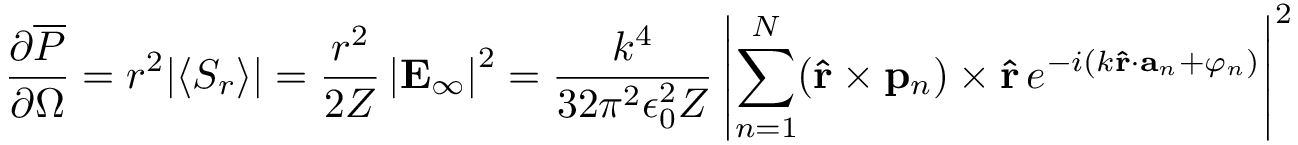
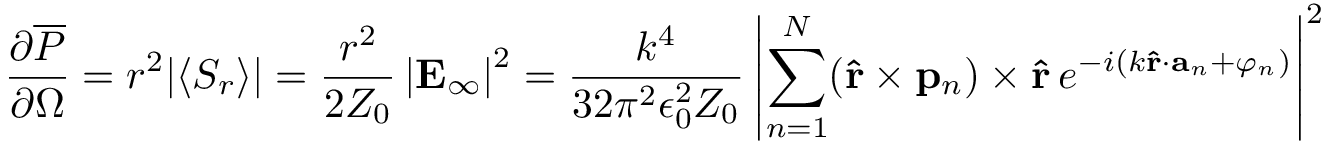
use Z_0 instead of Z for the impedance of free space

diff --git a/doc/equations.tex b/doc/equations.tex
@@ -41,7 +41,7 @@ r' := |\mathbf{r} - \mathbf{a}_{n}|\quad\mathbf{\hat{r}'} := \frac{\mathbf{r} - 
 
 % radiant intensity (radiant flux per unit solid angle)
 \begin{mymath}
-  \frac{\partial \overline{P}}{\partial \Omega} = r^{2} |\langle S_{r} \rangle| = \frac{r^{2}}{2Z} \norm{\mathbf{E}_{\infty}}^{2} = \frac{k^{4}}{32\pi^{2}\epsilon_{0}^{2}Z} \norm{\sum_{n=1}^{N} (\mathbf{\hat{r}} \times \mathbf{p}_{n}) \times \mathbf{\hat{r}}\, e^{- i(k\mathbf{\hat{r}}\cdot\mathbf{a}_{n} + \varphi_{n})}}^{2}
+  \frac{\partial \overline{P}}{\partial \Omega} = r^{2} |\langle S_{r} \rangle| = \frac{r^{2}}{2Z_0} \norm{\mathbf{E}_{\infty}}^{2} = \frac{k^{4}}{32\pi^{2}\epsilon_{0}^{2}Z_0} \norm{\sum_{n=1}^{N} (\mathbf{\hat{r}} \times \mathbf{p}_{n}) \times \mathbf{\hat{r}}\, e^{- i(k\mathbf{\hat{r}}\cdot\mathbf{a}_{n} + \varphi_{n})}}^{2}
 \end{mymath}
 
 \end{document}
